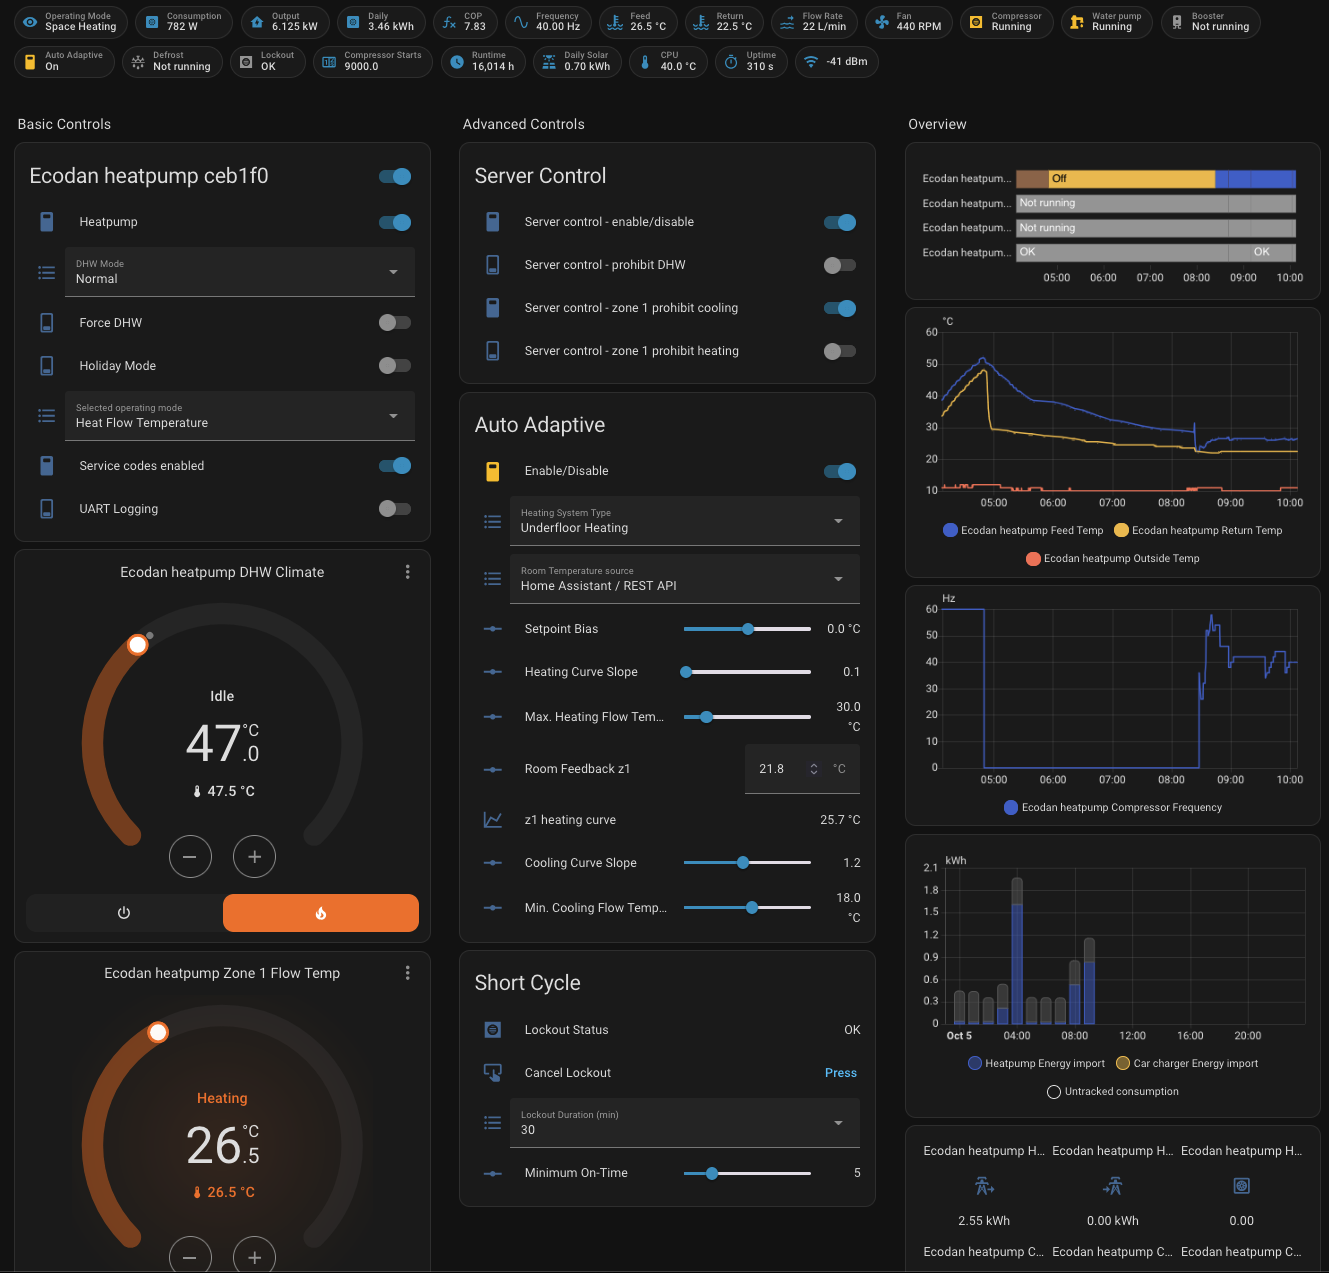
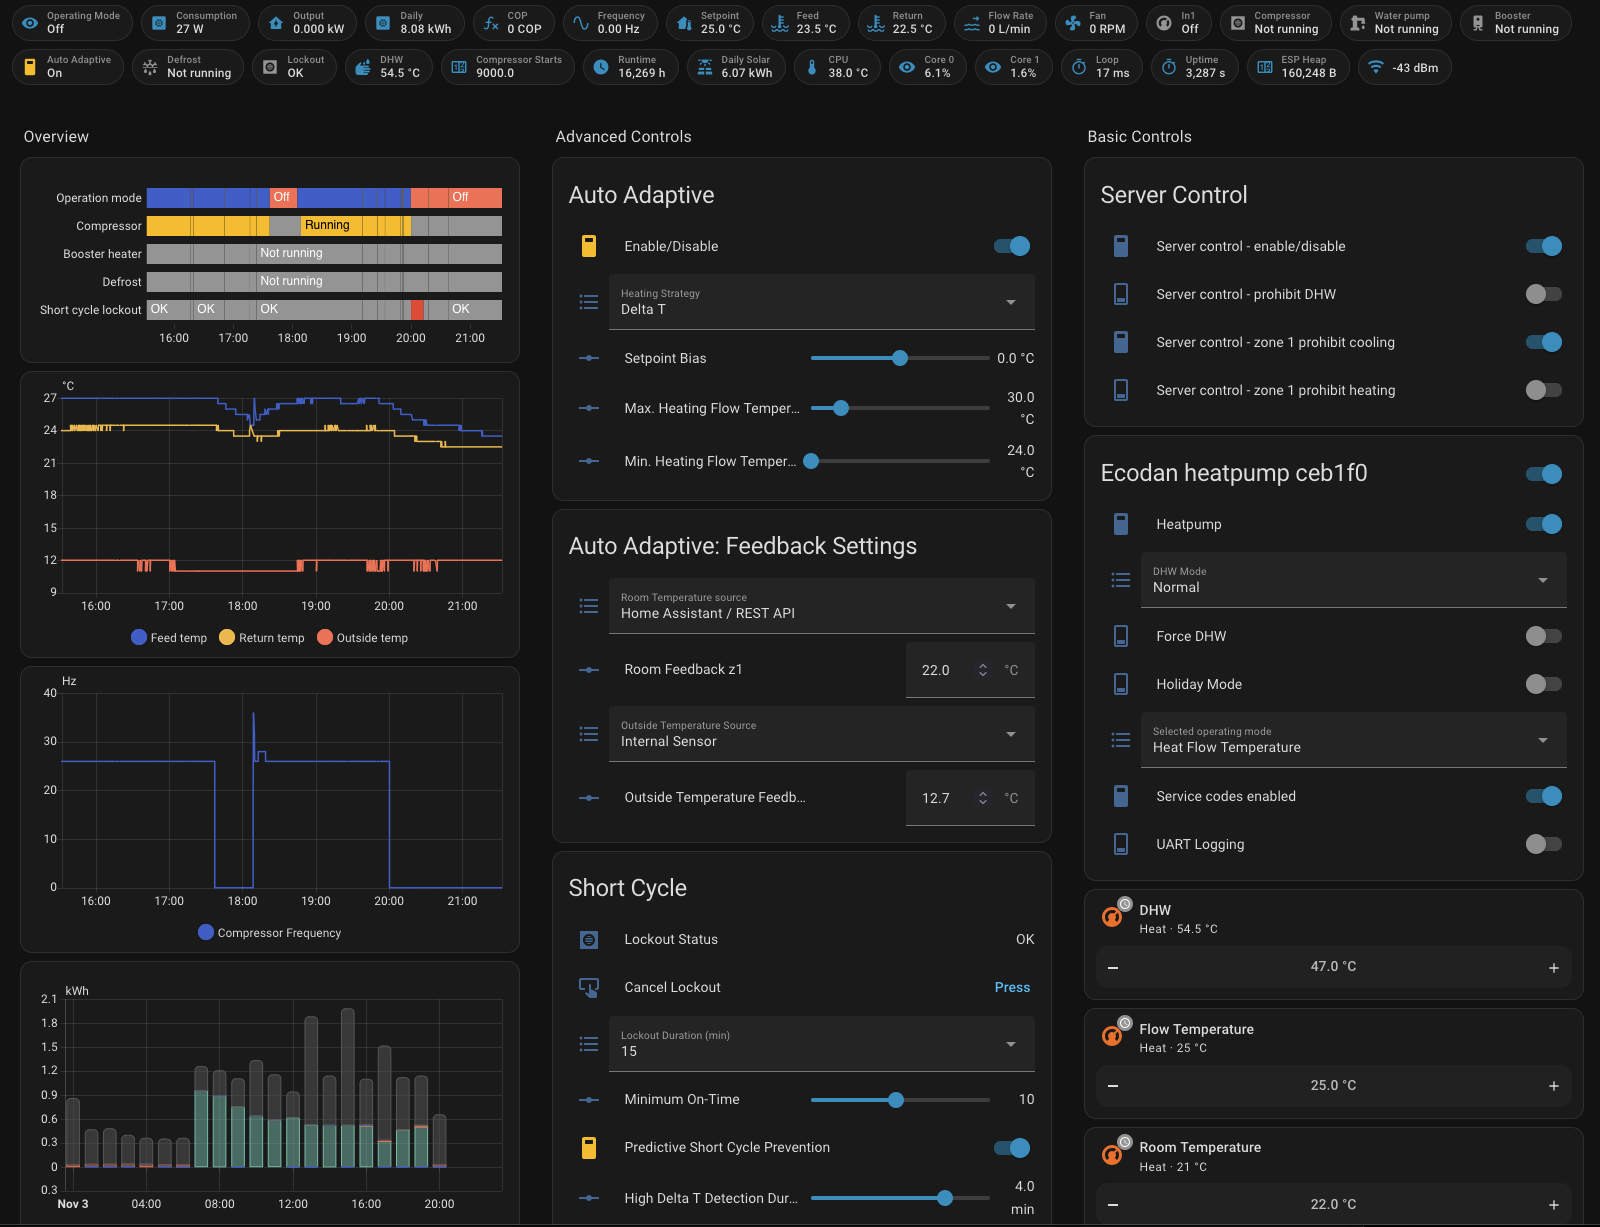
AA: Add Delta T heating strategy

diff --git a/docs/auto-adaptive-delta-t.md b/docs/auto-adaptive-delta-t.md
@@ -1,0 +1,85 @@
+## Heating Strategy: Delta-T (ΔT) Control
+
+This is an advanced, alternative control strategy that you can select instead of the default 'Auto-Adaptive Curve'.
+
+The key difference is that this strategy is **load-compensated** (reactive) rather than **weather-compensated** (predictive). It calculates the target flow temperature based on the **real-time heat demand** of your house, which it measures using the `return_temp` sensor.
+
+### The Benefits
+
+* **No Offset Drift:** This strategy does **not** use the learned `heating_curve_offset` global. The target flow temperature is calculated from scratch every cycle. This has a major advantage: the offset **cannot drift** to an extremely high or low value due to prolonged solar gain, misconfiguration, or unusual demand.
+* **Automatic Gentle Start:** This strategy inherently provides a "slow morning start." Because the `return_temp` is low when starting, the calculated flow temperature will also be low, regardless of the `error`. The target temperature will then automatically "ramp up" as the floor (or radiator) returns warmer water to the heat pump.
+
+### How It Works
+
+The strategy follows these steps:
+
+1.  **Select Profile:** It uses the `heating_system_type` setting to select one of three hard-coded ΔT profiles (UFH, Hybrid, or Radiators).
+2.  **Calculate Error:** It calculates the `error` exactly as the main algorithm does. This is the crucial part: it automatically includes your **`setpoint_bias`** and **`thermostat_overshoot_compensation`**. A "slow morning start" (using a negative bias) will therefore result in a very small `error`, leading to a very gentle ΔT.
+3.  **Scale Error (Non-Linear):** The `error` is clamped between `0.0` (no error) and `1.0` (large error). It is then scaled **non-linearly** (`error_factor = error * error`). This makes the controller very gentle at small errors but increasingly aggressive as the error grows.
+4.  **Calculate Target ΔT:** It uses this `error_factor` to interpolate between the profile's `min_delta_t` (for efficiency) and `max_delta_t` (for power).
+    `target_delta_t = min_delta_t + (error_factor * (max_delta_t - min_delta_t))`
+5.  **Calculate Target Flow:** The final target flow is calculated based on the real-time return temperature.
+    `Calculated Flow = return_temp + target_delta_t`
+6.  **Rounding (Conservative):** The final value is rounded **down** (floored) to the nearest 0.5°C to match the heat pump's resolution. This ensures the controller is never more aggressive than intended, which provides a more stable and gentle ramp-up.
+    `Final Flow = floor(Calculated Flow * 2) / 2.0`
+
+### Example Calculations
+
+These tables show what the final target flow temperature will be based on the system type and the `error`.
+
+#### Profile 1: UFH (Underfloor Heating)
+* **Return Temp:** 22.0°C
+* **Min ΔT:** 2.5°C
+* **Max ΔT:** 6.0°C
+
+| Error | Error Factor (error^2) | Target ΔT | Calculated Flow | Final Flow (Floored) |
+| :--- | :--- | :--- | :--- | :--- |
+| 0.0 | 0.00 | 2.50°C | 24.50°C | **24.5°C** |
+| 0.1 | 0.01 | 2.54°C | 24.54°C | **24.5°C** |
+| 0.2 | 0.04 | 2.64°C | 24.64°C | **24.5°C** |
+| 0.3 | 0.09 | 2.82°C | 24.82°C | **24.5°C** |
+| 0.4 | 0.16 | 3.06°C | 25.06°C | **25.0°C** |
+| 0.5 | 0.25 | 3.38°C | 25.38°C | **25.0°C** |
+| 0.6 | 0.36 | 3.76°C | 25.76°C | **25.5°C** |
+| 0.7 | 0.49 | 4.22°C | 26.22°C | **26.0°C** |
+| 0.8 | 0.64 | 4.74°C | 26.74°C | **26.5°C** |
+| 0.9 | 0.81 | 5.34°C | 27.34°C | **27.0°C** |
+| 1.0 | 1.00 | 6.00°C | 28.00°C | **28.0°C** |
+
+#### Profile 2: Hybrid (UFH + Radiators)
+* **Return Temp:** 22.0°C
+* **Min ΔT:** 4.0°C
+* **Max ΔT:** 8.0°C
+
+| Error | Error Factor (error^2) | Target ΔT | Calculated Flow | Final Flow (Floored) |
+| :--- | :--- | :--- | :--- | :--- |
+| 0.0 | 0.00 | 4.00°C | 26.00°C | **26.0°C** |
+| 0.1 | 0.01 | 4.04°C | 26.04°C | **26.0°C** |
+| 0.2 | 0.04 | 4.16°C | 26.16°C | **26.0°C** |
+| 0.3 | 0.09 | 4.36°C | 26.36°C | **26.0°C** |
+| 0.4 | 0.16 | 4.64°C | 26.64°C | **26.5°C** |
+| 0.5 | 0.25 | 5.00°C | 27.00°C | **27.0°C** |
+| 0.6 | 0.36 | 5.44°C | 27.44°C | **27.0°C** |
+| 0.7 | 0.49 | 5.96°C | 27.96°C | **27.5°C** |
+| 0.8 | 0.64 | 6.56°C | 28.56°C | **28.5°C** |
+| 0.9 | 0.81 | 7.24°C | 29.24°C | **29.0°C** |
+| 1.0 | 1.00 | 8.00°C | 30.00°C | **30.0°C** |
+
+#### Profile 3: Radiators
+* **Return Temp:** 22.0°C
+* **Min ΔT:** 5.0°C
+* **Max ΔT:** 10.0°C
+
+| Error | Error Factor (error^2) | Target ΔT | Calculated Flow | Final Flow (Floored) |
+| :--- | :--- | :--- | :--- | :--- |
+| 0.0 | 0.00 | 5.00°C | 27.00°C | **27.0°C** |
+| 0.1 | 0.01 | 5.05°C | 27.05°C | **27.0°C** |
+| 0.2 | 0.04 | 5.20°C | 27.20°C | **27.0°C** |
+| 0.3 | 0.09 | 5.45°C | 27.45°C | **27.0°C** |
+| 0.4 | 0.16 | 5.80°C | 27.80°C | **27.5°C** |
+| 0.5 | 0.25 | 6.25°C | 28.25°C | **28.0°C** |
+| 0.6 | 0.36 | 6.80°C | 28.80°C | **28.5°C** |
+| 0.7 | 0.49 | 7.45°C | 29.45°C | **29.0°C** |
+| 0.8 | 0.64 | 8.20°C | 30.20°C | **30.0°C** |
+| 0.9 | 0.81 | 9.05°C | 31.05°C | **31.0°C** |
+| 1.0 | 1.00 | 10.00°C | 32.00°C | **32.0°C** |
